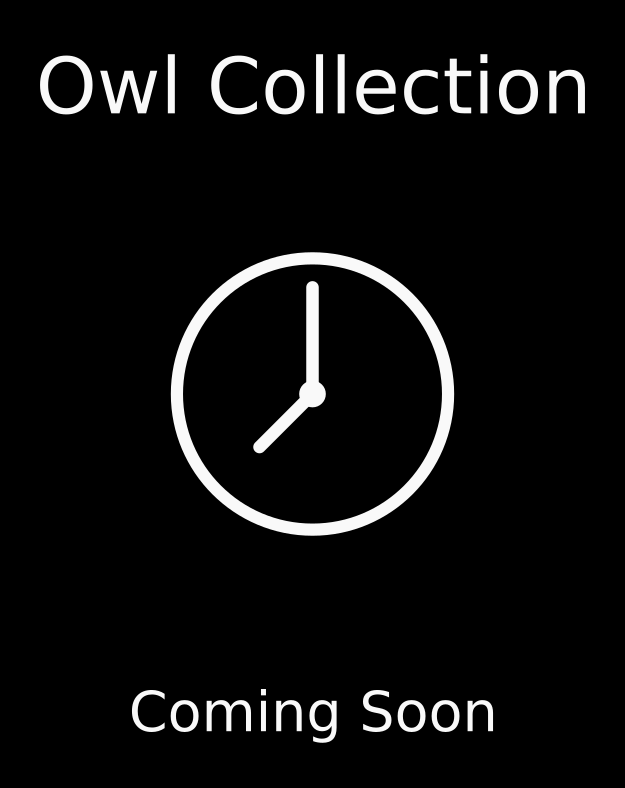
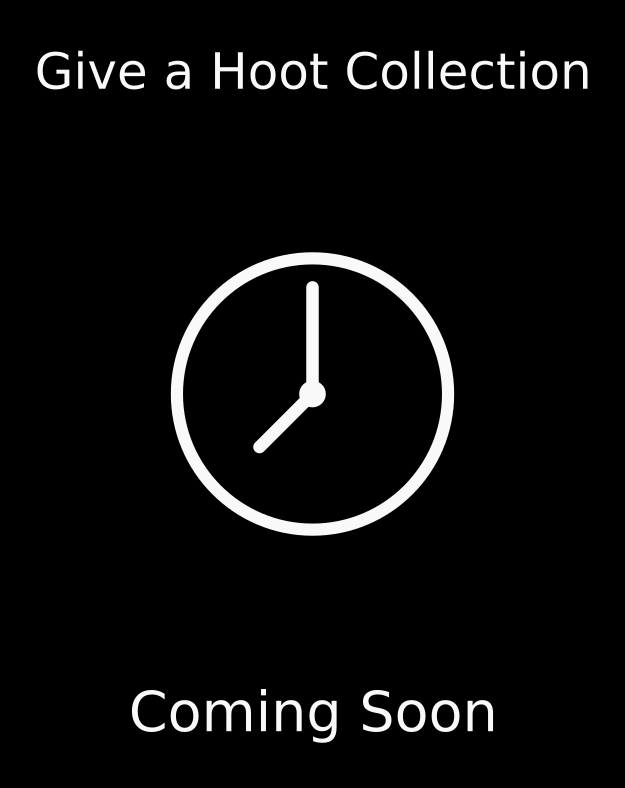
Renamed Owl Collection to Give a Hoot Collection

Changed region(s): [[0.3344, 0.0609, 0.9424, 0.1523], [0.0608, 0.0609, 0.304, 0.1523]]

diff --git a/src/pages/collections/collections.component.html b/src/pages/collections/collections.component.html
@@ -40,10 +40,10 @@
 
             <div class="card">
                 <br>
-                <h3 class="card-title">Upcoming Owl Collection</h3>
+                <h3 class="card-title">Give a Hoot Collection</h3>
                 <hr class="hr-light">
                 <center>
-                    <img src="assets/images/collections/soon_owl.png" class="card-img-top" alt="Upcoming Owl Collection"
+                    <img src="assets/images/collections/soon_owl.png" class="card-img-top" alt="Give a Hoot Collection"
                         style="height: 100%; width: 75%;" />
                 </center>
                 <div class="card-body">

diff --git a/src/pages/home/home.component.html b/src/pages/home/home.component.html
@@ -57,10 +57,10 @@
 
             <div class="card">
                 <br>
-                <h3 class="card-title">Upcoming Owl Collection</h3>
+                <h3 class="card-title">Give a Hoot Collection</h3>
                 <hr class="hr-light">
                 <center>
-                    <img src="assets/images/collections/soon_owl.png" class="card-img-top" alt="Upcoming Owl Collection"
+                    <img src="assets/images/collections/soon_owl.png" class="card-img-top" alt="Give a Hoot Collection"
                         style="height: 100%; width: 75%;" />
                 </center>
                 <div class="card-body">
